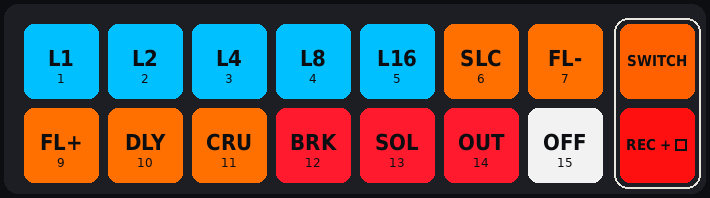
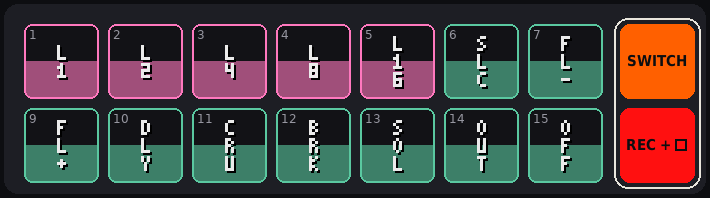
Pads drawn twice: in full words (the pads' colours), and in short as the screen keyboard writes them, in its colours
Claude-Session: https://claude.ai/code/session_01N9f4HJn3ZZ4mEGDi7YNfQW

diff --git a/docs/_FR/22-reperes-ecran-et-menus.md b/docs/_FR/22-reperes-ecran-et-menus.md
@@ -220,6 +220,14 @@ Tous les paramètres du son de la ligne : oscillateurs, filtre, enveloppes, puis
 
 16 pads : 14 de jeu, et à droite (encadrés) MODE en haut, SWITCH : une tape = le mode suivant, le pad prend sa couleur ; REC en bas : REC + un pad. Le bouton > (PAD/STEP) fait aussi le tour des modes.
 
+Tous les modes en toutes lettres, dans les couleurs des pads :
+
+<p align="center"><img src="../img/pads-all-modes.png" width="560" alt="pads"></p>
+
+Les mêmes en abrégé, comme le clavier à l’écran les écrit, dans ses couleurs (même fonction, même couleur : rose = boucles et scènes, menthe = agit tout de suite, violet = piste qui joue) :
+
+<p align="center"><img src="../img/pads-all-modes-keys.png" width="560" alt="pads"></p>
+
 ### CLIPS
 
 14 clips : REC + pad pour l’armer, la première note lance la prise (4 mesures au plus). Tape = SINGLE, MODE + pad = LOOP verrouillé. SHIFT + pad : effacer. Couleur du clip : rouge batterie, vert acid, rose USER, bleu les autres.

diff --git a/docs/_EN/22-screen-keyboard-and-menus.md b/docs/_EN/22-screen-keyboard-and-menus.md
@@ -220,6 +220,14 @@ Every parameter of the line's sound: oscillators, filter, envelopes, then the mo
 
 16 pads: 14 to play, and on the right (framed) MODE at the top, SWITCH: a tap = the next mode, the pad takes its colour; REC at the bottom: REC + a pad. The > button (PAD/STEP) also goes round the modes.
 
+Every mode in full words, in the pads’ colours:
+
+<p align="center"><img src="../img/pads-all-modes.png" width="560" alt="pads"></p>
+
+The same in short, as the screen keyboard writes them, in its colours (same function, same colour: pink = loops and scenes, mint = acts at once, violet = a track playing):
+
+<p align="center"><img src="../img/pads-all-modes-keys.png" width="560" alt="pads"></p>
+
 ### CLIPS
 
 14 clips: REC + pad arms one, the first note starts the take (4 bars at most). Tap = SINGLE, MODE + pad = LOOP latched. SHIFT + pad: delete. A clip's colour: red drums, green acid, pink USER, blue the others.

diff --git a/README.md b/README.md
@@ -39,6 +39,11 @@ The 16 pads, mode by mode; framed on the right, **SWITCH** (MODE: the next mode)
 
 <p align="center"><img src="docs/img/pads-all-modes.png" width="560" alt="The pads in each mode: CLIPS, DRUMS, PERFORM, SCENES, MIDI; on the right SWITCH and REC + a pad"></p>
 
+The same in short, as the screen keyboard writes them, in its colours (pink: loops and scenes, mint: acts at once,
+violet: a track playing):
+
+<p align="center"><img src="docs/img/pads-all-modes-keys.png" width="560" alt="The pads in each mode in short, in the screen keyboard's colours"></p>
+
 Every layer, the buttons, the set-up menus, the pads and the sounds:
 **[22 — At a glance](docs/_EN/22-screen-keyboard-and-menus.md)** · 🇫🇷 **[22 — Repères](docs/_FR/22-reperes-ecran-et-menus.md)**
 
